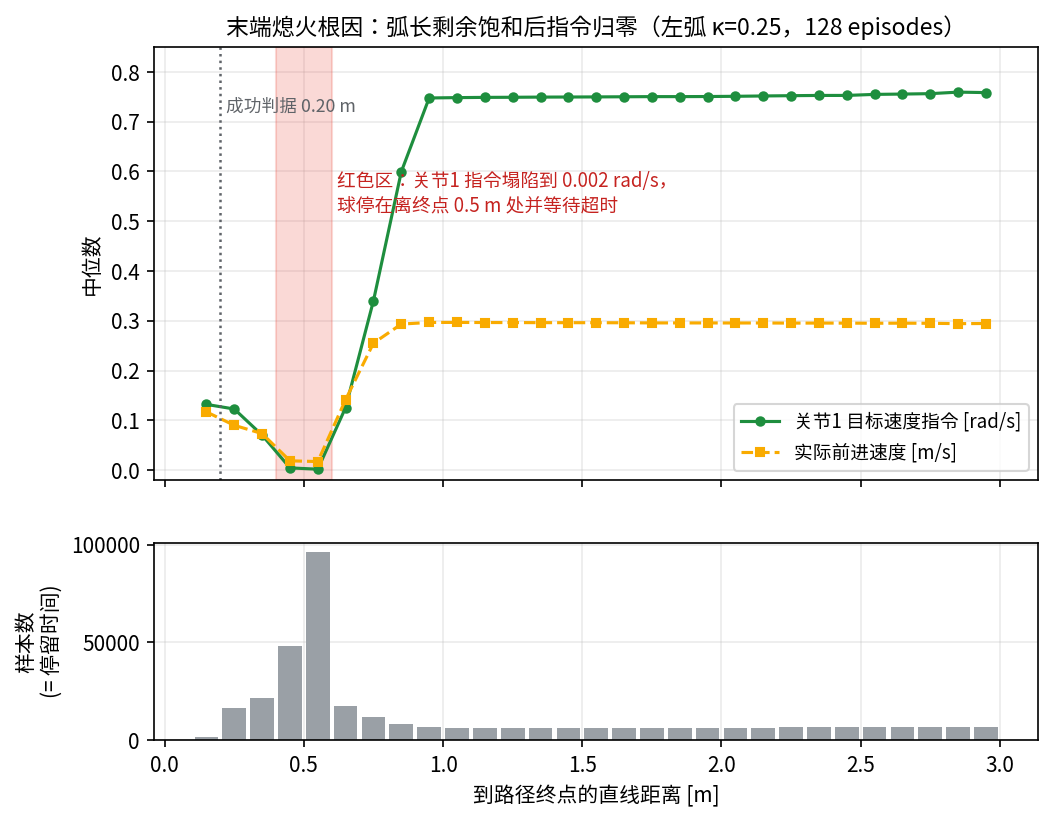
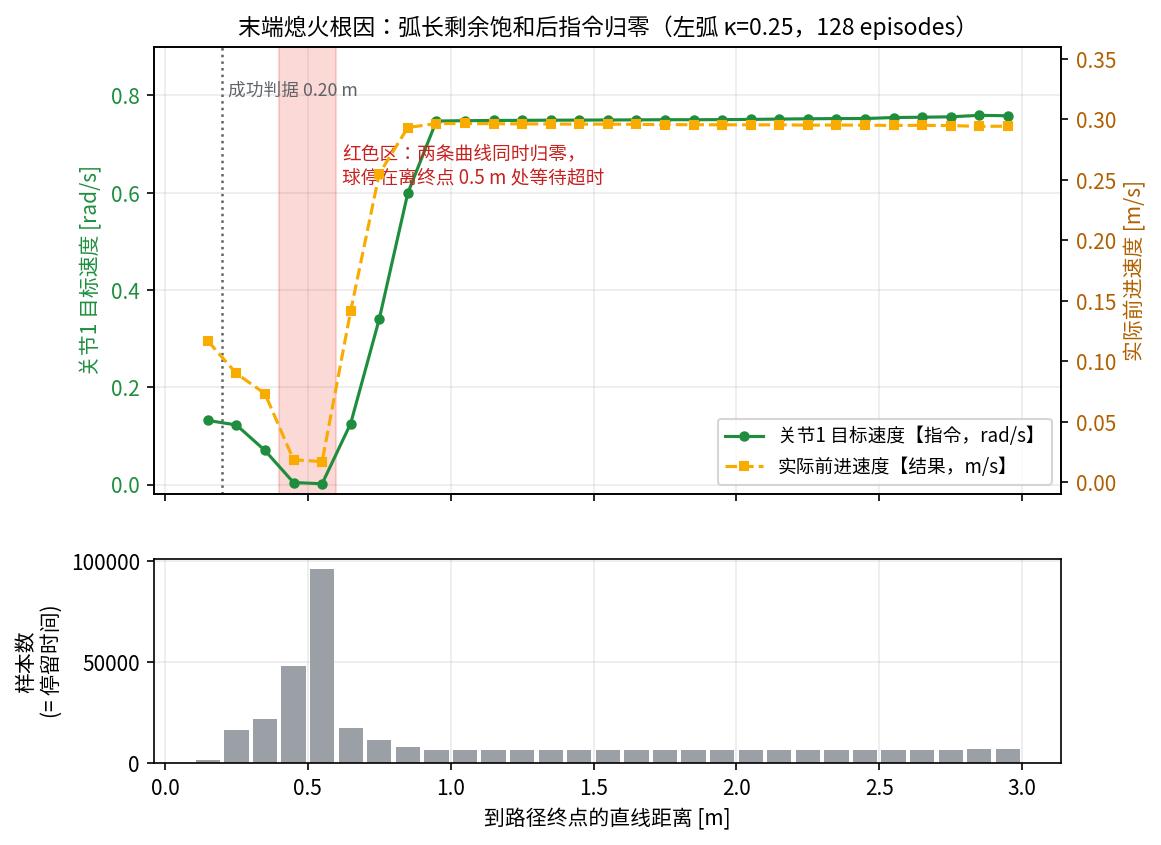
Give figure 3 separate axes for the command and the resulting speed
The joint-1 target velocity is an angular-velocity command in rad/s and the
forward speed is the resulting linear velocity in m/s; drawn on one axis they
invite the reading that the two should coincide. The transmission between them is
about 0.40 (m/s)/(rad/s), measured open loop, which is why the command reads
roughly 2.5x the speed during cruise. The top panel now uses twin axes with each
label carrying its unit, and the caption says so.

Changed region(s): [[0.0608, 0.0, 1.0, 0.6083], [0.0, 0.6387, 0.9734, 1.0], [0.9125, 0.6387, 0.943, 0.6691]]

diff --git a/artifacts/path_follower/report_20260912/make_figures.py b/artifacts/path_follower/report_20260912/make_figures.py
@@ -140,18 +140,36 @@ def figure_root_cause():
         med_spd.append(np.median(spd[mask]))
         counts.append(mask.sum())
 
-    fig, (ax1, ax2) = plt.subplots(2, 1, figsize=(7.6, 6.0), sharex=True,
+    fig, (ax1, ax2) = plt.subplots(2, 1, figsize=(7.8, 6.2), sharex=True,
                                    gridspec_kw={"height_ratios": [2.2, 1]})
-    ax1.plot(centers, med_cmd, "o-", color=C_GOOD, ms=4, label="关节1 目标速度指令 [rad/s]")
-    ax1.plot(centers, med_spd, "s--", color=C_MID, ms=4, label="实际前进速度 [m/s]")
+    # The two series are different physical quantities - a joint angular velocity
+    # command and the resulting body linear speed - so they get separate axes.
+    # Plotted together on one axis they invite the misreading that they should
+    # coincide; the transmission ratio between them is about 0.4 (m/s)/(rad/s).
+    ax1.plot(centers, med_cmd, "o-", color=C_GOOD, ms=4,
+             label="关节1 目标速度【指令，rad/s】")
+    ax1.set_ylabel("关节1 目标速度 [rad/s]", color=C_GOOD)
+    ax1.tick_params(axis="y", labelcolor=C_GOOD)
+    ax1.set_ylim(-0.02, 0.90)
+
+    ax_speed = ax1.twinx()
+    ax_speed.plot(centers, med_spd, "s--", color=C_MID, ms=4,
+                  label="实际前进速度【结果，m/s】")
+    ax_speed.set_ylabel("实际前进速度 [m/s]", color="#b06000")
+    ax_speed.tick_params(axis="y", labelcolor="#b06000")
+    ax_speed.set_ylim(-0.01, 0.36)
+
     ax1.axvspan(0.4, 0.6, color="#ea4335", alpha=0.20)
-    ax1.annotate("红色区：关节1 指令塌陷到 0.002 rad/s，\n球停在离终点 0.5 m 处并等待超时",
-                 xy=(0.62, 0.52), fontsize=9, color="#c5221f")
+    ax1.annotate("红色区：两条曲线同时归零，\n球停在离终点 0.5 m 处等待超时",
+                 xy=(0.62, 0.62), fontsize=9, color="#c5221f")
     ax1.axvline(0.20, color="#5f6368", ls=":", lw=1.2)
-    ax1.annotate("成功判据 0.20 m", xy=(0.22, 0.72), fontsize=8.5, color="#5f6368")
-    ax1.set_ylabel("中位数")
-    ax1.set_ylim(-0.02, 0.85)
-    ax1.legend(fontsize=9, loc="lower right")
+    ax1.annotate("成功判据 0.20 m", xy=(0.22, 0.80), fontsize=8.5, color="#5f6368")
+    ax1.set_title("末端熄火根因：弧长剩余饱和后指令归零（左弧 κ=0.25，128 episodes）",
+                  fontsize=11)
+    handles = ax1.get_lines() + ax_speed.get_lines()
+    ax1.legend(handles, [h.get_label() for h in handles], fontsize=9, loc="lower right")
+    ax1.grid(alpha=0.25)
+    ax1.set_axisbelow(True)
     ax1.grid(alpha=0.25)
     ax1.set_axisbelow(True)
     ax1.set_title("末端熄火根因：弧长剩余饱和后指令归零（左弧 κ=0.25，128 episodes）", fontsize=11)

diff --git a/artifacts/path_follower/report_20260912/REPORT.md b/artifacts/path_follower/report_20260912/REPORT.md
@@ -83,7 +83,7 @@ V3/V4/V5 反复重做架构都没解决。后来发现最关键的一点：**归
 *图 2：逐 (类型 × 曲率) 格子对比，**未见过的曲率**上*
 
 ![根因](fig3_root_cause.png)
-*图 3：末端熄火根因——弧长剩余饱和后指令归零*
+*图 3：末端熄火根因——弧长剩余饱和后指令归零。两条曲线单位不同：绿色是关节1 角速度**指令**（rad/s，左轴），橙色是球体前进**线速度**（m/s，右轴），两者之间隔着约 0.40 (m/s)/(rad/s) 的传动比（开环辨识值），所以它们在数值上本就不该重合*
 
 ![泛化](fig4_generalization.png)
 *图 4：样本外验证——换种子 + 换成训练中从未出现的曲率*
